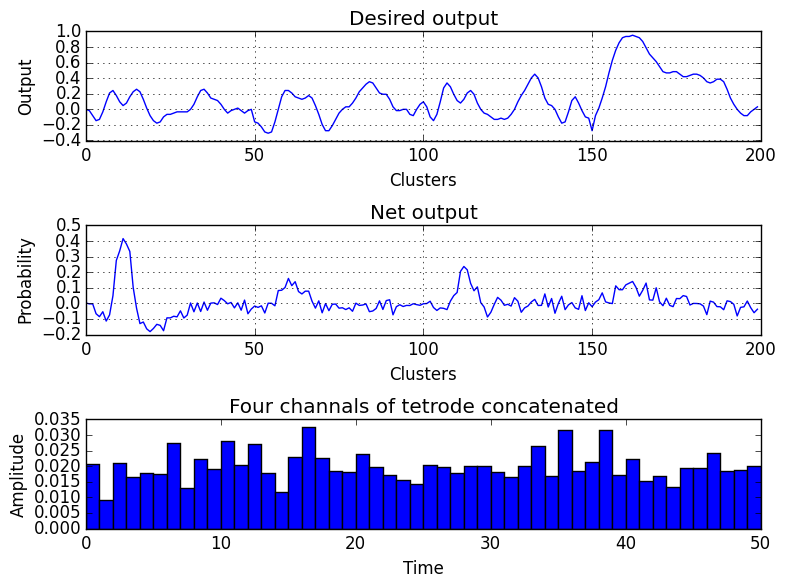
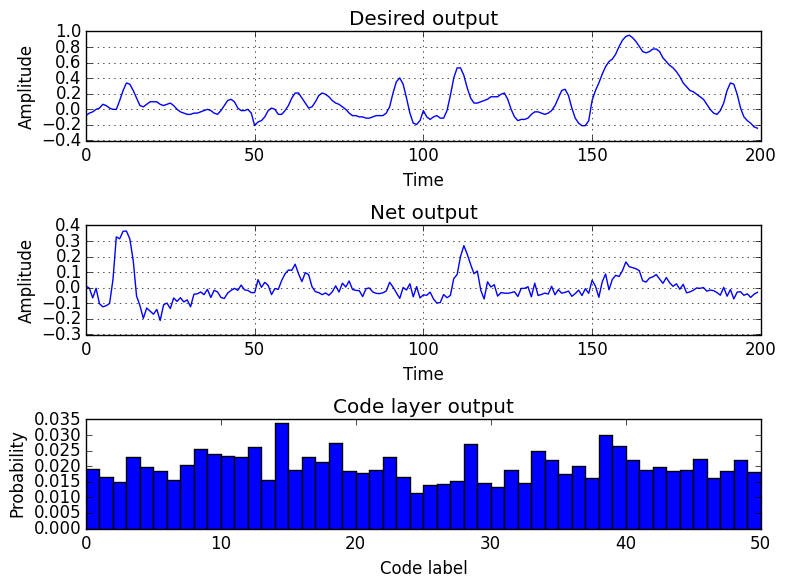
sparse autoencoder

diff --git a/autoencoder.py b/autoencoder.py
@@ -50,7 +50,7 @@ MOMENTUM = 0.9
 EARLY_STOPPING = False
 STOPPING_RANGE = 10
 
-LOG_EXPERIMENT = True
+LOG_EXPERIMENT = False
 
 TETRODE_NUMBER = 11
 
@@ -98,7 +98,7 @@ def load_data(tetrode_number):
     )
 
 
-def model(input_shape, output_dim, num_hidden_units,num_code_units, batch_size=BATCH_SIZE):
+def model(input_shape, output_dim, num_hidden_units,num_hidden_units_2, num_code_units, batch_size=BATCH_SIZE):
         """
             Create a symbolic representation of a neural network with `intput_dim`
             input nodes, `output_dim` output nodes and `num_hidden_units` per hidden
@@ -117,18 +117,29 @@ def model(input_shape, output_dim, num_hidden_units,num_code_units, batch_size=B
             nonlinearity=lasagne.nonlinearities.rectify,
             )
 
-        l_code_layer = lasagne.layers.DenseLayer(
+        l_hidden_2 = lasagne.layers.DenseLayer(
             l_hidden_1,
+            num_units=num_hidden_units_2,
+            nonlinearity=lasagne.nonlinearities.rectify,
+            )
+
+        l_code_layer = lasagne.layers.DenseLayer(
+            l_hidden_2,
             num_units=num_code_units,
             nonlinearity=lasagne.nonlinearities.softmax,
             )
 
-        l_hidden_2 = lasagne.layers.DenseLayer(
+        l_hidden_3 = lasagne.layers.DenseLayer(
             l_code_layer,
-            num_units=num_hidden_units,
+            num_units=num_hidden_units_2,
             nonlinearity=lasagne.nonlinearities.rectify,
             )
 
+        l_hidden_4 = lasagne.layers.DenseLayer(
+            l_hidden_3,
+            num_units=num_hidden_units,
+            nonlinearity=lasagne.nonlinearities.rectify,
+            )
 
         l_out = lasagne.layers.DenseLayer(
             l_hidden_2,
@@ -138,7 +149,7 @@ def model(input_shape, output_dim, num_hidden_units,num_code_units, batch_size=B
 
         return l_out
 
-def funcs(dataset, network, batch_size=BATCH_SIZE, learning_rate=LEARNING_RATE, sparsity=0.05, beta=0.001, momentum=MOMENTUM):
+def funcs(dataset, network, batch_size=BATCH_SIZE, learning_rate=LEARNING_RATE, sparsity=0.02, beta=0.01, momentum=MOMENTUM):
 
     """
         Method the returns the theano functions that are used in 
@@ -185,16 +196,18 @@ def funcs(dataset, network, batch_size=BATCH_SIZE, learning_rate=LEARNING_RATE, 
     predict = theano.function(inputs=[X_batch], outputs=pred, allow_input_downcast=True)
     accuracy = theano.function(inputs=[X_batch,y_batch], outputs=accuracy, allow_input_downcast=True)
     code = theano.function(inputs=[X_batch], outputs=code_output, allow_input_downcast=True)
+    L_penalty = theano.function(inputs=[X_batch], outputs=rho_hat, allow_input_downcast=True)
 
     return dict(
         train=train,
         valid=valid,
         predict=predict,
         accuracy=accuracy,
-        code=code
+        code=code,
+        L_penalty=L_penalty
     )
 
-def main(tetrode_number=TETRODE_NUMBER,num_hidden_units=300,num_code_units=50):
+def main(tetrode_number=TETRODE_NUMBER,num_hidden_units=300,num_hidden_units_2=200,num_code_units=100):
     """
         This is the main method that sets up the experiment
     """
@@ -207,7 +220,7 @@ def main(tetrode_number=TETRODE_NUMBER,num_hidden_units=300,num_code_units=50):
     print(dataset['input_shape'])
     
     print("Making the model...")
-    network = model(dataset['input_shape'],dataset['output_dim'],num_hidden_units,num_code_units)
+    network = model(dataset['input_shape'],dataset['output_dim'],num_hidden_units,num_hidden_units_2,num_code_units)
     print("Done!")
 
     print("Setting up the training functions...")
@@ -257,8 +270,9 @@ def main(tetrode_number=TETRODE_NUMBER,num_hidden_units=300,num_code_units=50):
                     
                     code = training['code'](testing)
 
-                    print(code)
-
+                    # print(code)
+                    L_penalty = training['L_penalty'](testing)
+                    print(L_penalty)
                     # plotting the figure
 
                     fig = plt.figure(1)
@@ -270,19 +284,19 @@ def main(tetrode_number=TETRODE_NUMBER,num_hidden_units=300,num_code_units=50):
 
                     sub1.set_title('Desired output')
                     sub2.set_title('Net output')
-                    sub3.set_title('Four channals of tetrode concatenated')
+                    sub3.set_title('Code layer output')
 
                     # adding x labels
 
-                    sub1.set_xlabel('Clusters')
-                    sub2.set_xlabel('Clusters')
-                    sub3.set_xlabel('Time')
+                    sub1.set_xlabel('Time')
+                    sub2.set_xlabel('Time')
+                    sub3.set_xlabel('Code label')
 
                     # adding y labels
 
-                    sub1.set_ylabel('Output')
-                    sub2.set_ylabel('Probability')
-                    sub3.set_ylabel('Amplitude')
+                    sub1.set_ylabel('Amplitude')
+                    sub2.set_ylabel('Amplitude')
+                    sub3.set_ylabel('Probability')
 
                     # Plotting data
 
@@ -340,7 +354,7 @@ def main(tetrode_number=TETRODE_NUMBER,num_hidden_units=300,num_code_units=50):
     if(LOG_EXPERIMENT):
         print("Logging the experiment details...")
         log = dict(
-            NET_TYPE = "Auto encoder 1 hidden 1 code",
+            NET_TYPE = "Auto encoder 2 hidden 1 code 300 200 100",
             TETRODE_NUMBER = tetrode_number,
             BASENAME = BASENAME,
             NUM_EPOCHS = epochsDone,
